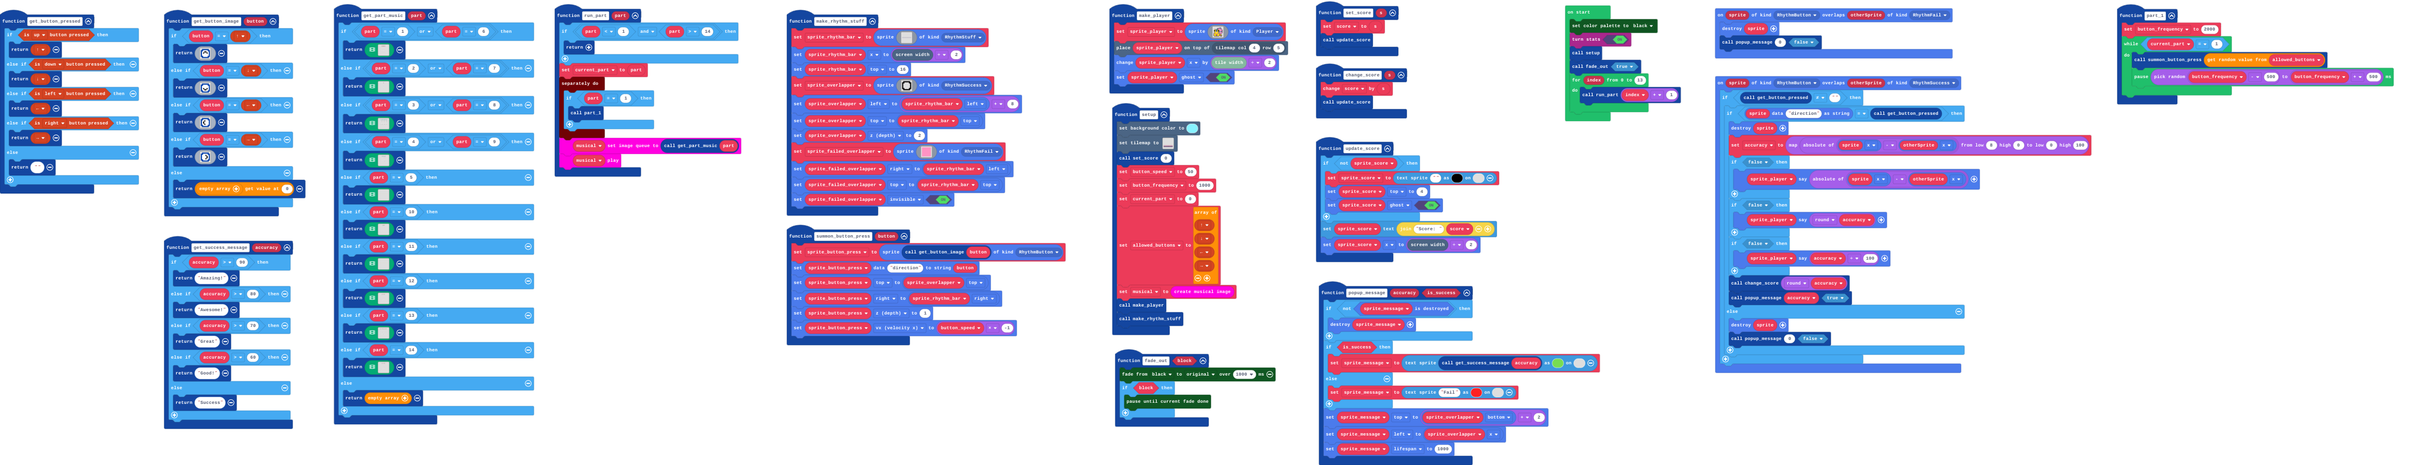
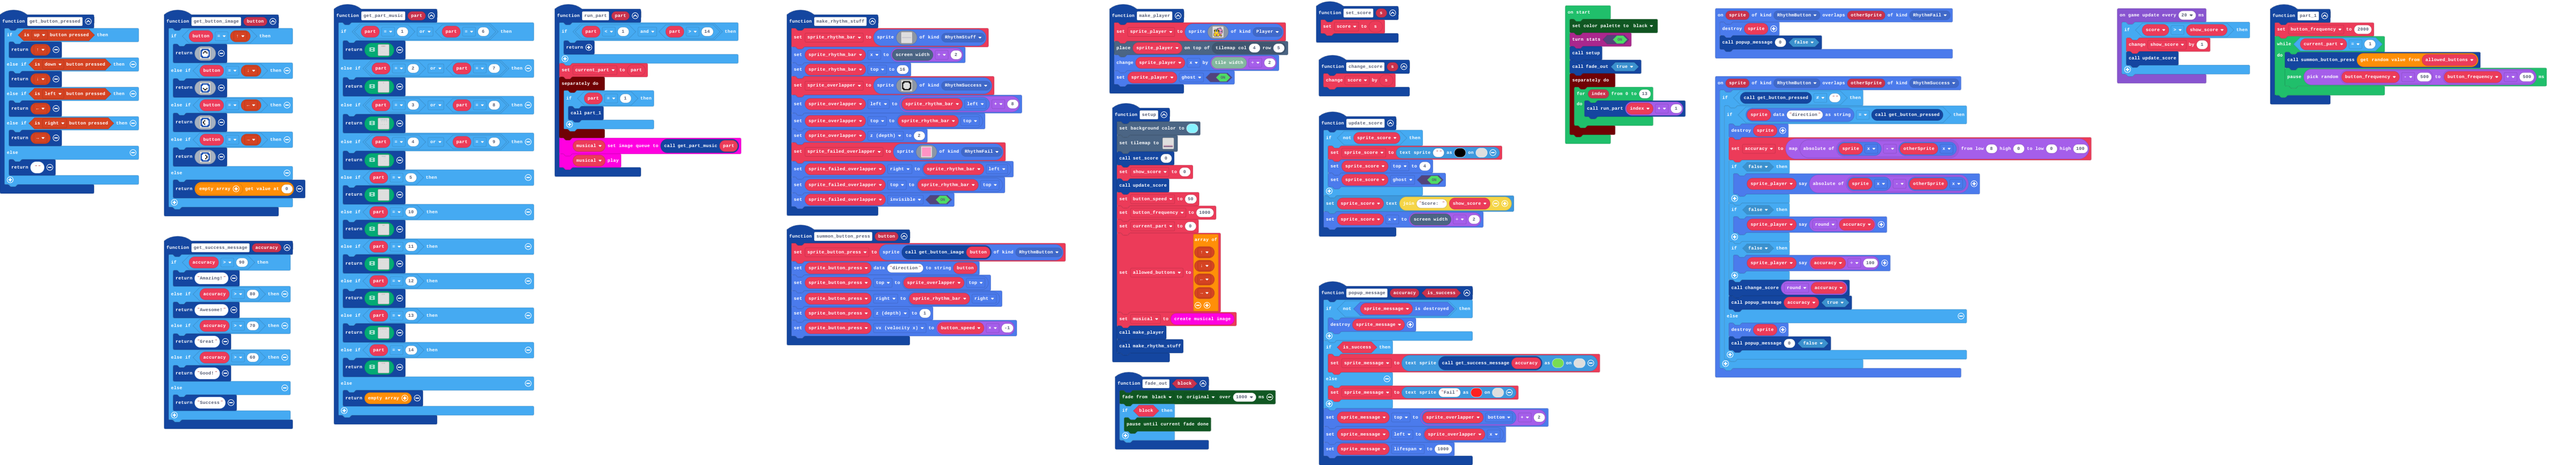
Make score increment

diff --git a/main.ts b/main.ts
@@ -30,7 +30,6 @@ function get_button_pressed () {
 }
 function set_score (s: number) {
     score = s
-    update_score()
 }
 function fade_out (block: boolean) {
     color.startFade(color.Black, color.originalPalette, 1000)
@@ -66,7 +65,7 @@ function update_score () {
         sprite_score.top = 4
         sprite_score.setFlag(SpriteFlag.Ghost, true)
     }
-    sprite_score.setText("Score: " + score)
+    sprite_score.setText("Score: " + show_score)
     sprite_score.x = scene.screenWidth() / 2
 }
 function get_part_music (part: number) {
@@ -117,6 +116,8 @@ function setup () {
     scene.setBackgroundColor(9)
     tiles.setTilemap(tilemap`map`)
     set_score(0)
+    show_score = 0
+    update_score()
     button_speed = 50
     button_frequency = 1000
     current_part = 0
@@ -192,7 +193,6 @@ function run_part (part: number) {
 }
 function change_score (s: number) {
     score += s
-    update_score()
 }
 let sprite_message: TextSprite = null
 let sprite_button_press: Sprite = null
@@ -201,6 +201,7 @@ let button_speed = 0
 let sprite_failed_overlapper: Sprite = null
 let sprite_overlapper: Sprite = null
 let sprite_rhythm_bar: Sprite = null
+let show_score = 0
 let sprite_score: TextSprite = null
 let sprite_player: Sprite = null
 let accuracy = 0
@@ -214,6 +215,14 @@ color.Black
 stats.turnStats(true)
 setup()
 fade_out(true)
-for (let index = 0; index <= 13; index++) {
-    run_part(index + 1)
-}
+timer.background(function () {
+    for (let index = 0; index <= 13; index++) {
+        run_part(index + 1)
+    }
+})
+game.onUpdateInterval(20, function () {
+    if (score > show_score) {
+        show_score += 1
+        update_score()
+    }
+})
